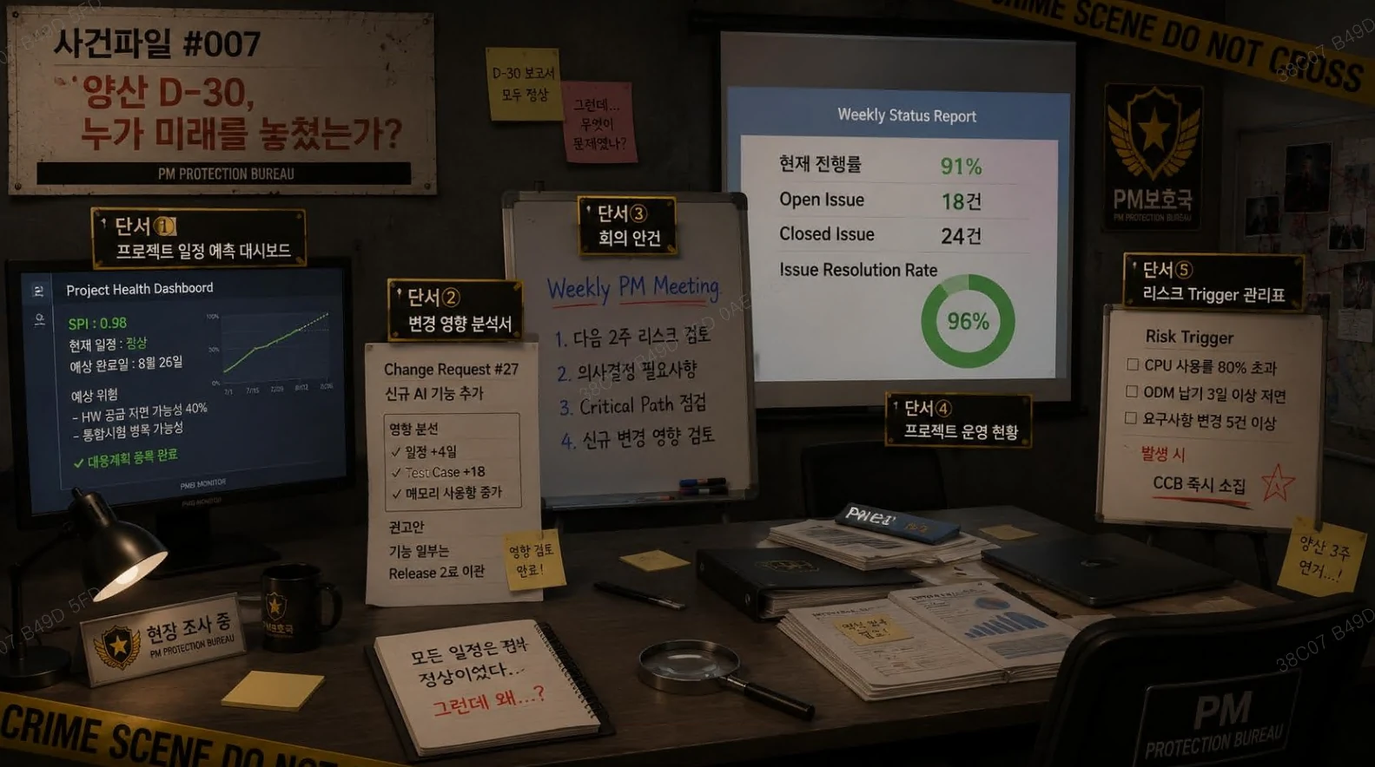
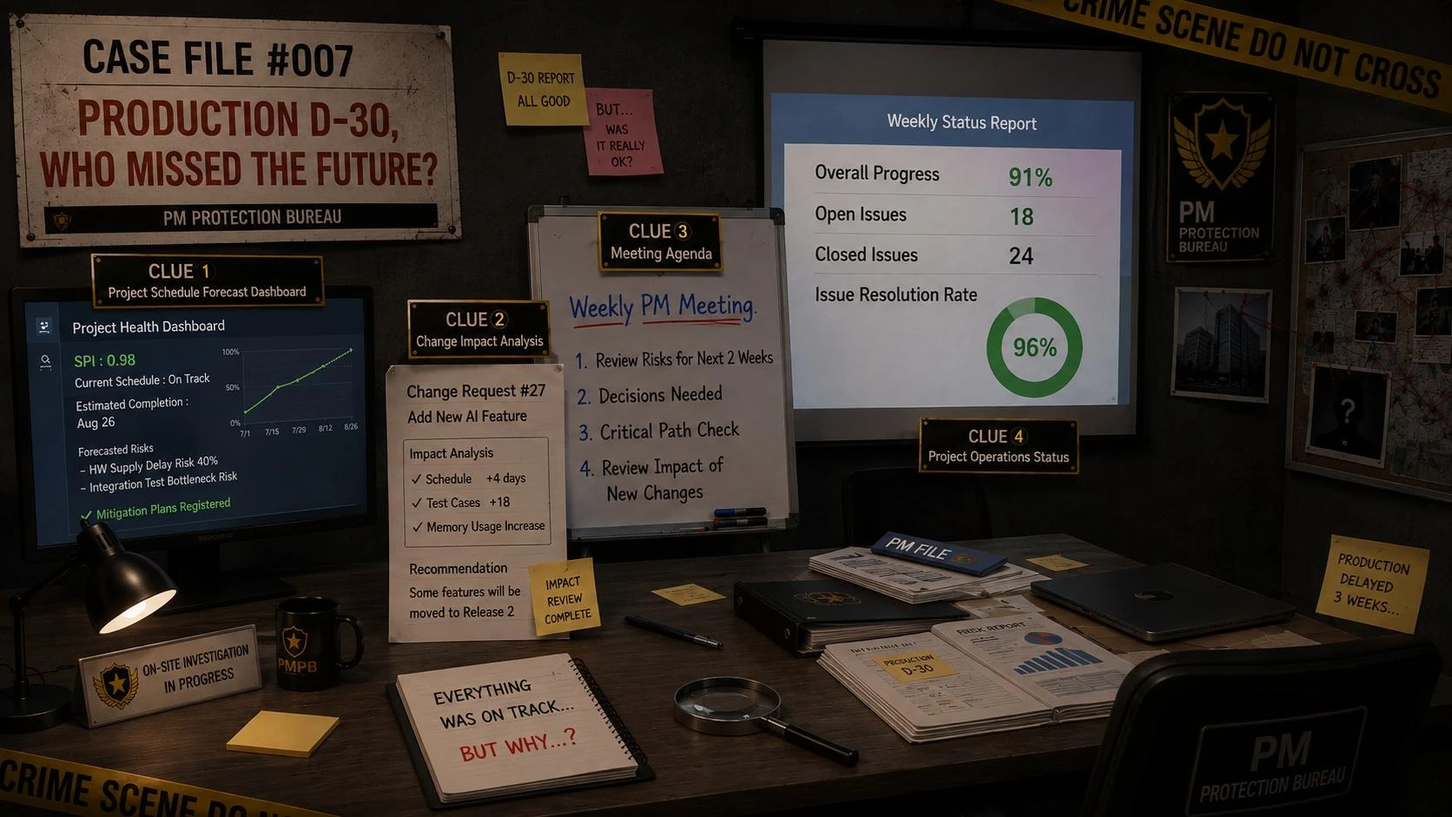
feat(score): 배점 100점 전환 · 사건 #001 확정본 반영
배점: 사건당 20점(300점 만점) → 스테이지별 배점(총 100점)
- src/js/constants/scoring.js 신설 — STAGE_POINTS{1:7,2:7,3:6} · STAGE_TOTALS ·
  STAGE_SCORE_MAX{21,49,30} · SCORE_MAX=100 · pointsFor(). 두 progress 구현에
  중복돼 있던 STAGE_TOTALS를 합치고 POINTS_PER_CASE는 제거했다.
- 표시 반영: 사이드바 만점 · Stage Result 점수 · 관리자 랭킹 Stage별 점수.
  사이드바 Stage Score 행은 정답 수/사건 수(2/7) 유지 — LayOut 설계값.
- 서버: supabase/migrations/0008_stage_points.sql — stage_points() 함수 +
  submit_answer가 이를 사용(stage는 서버가 case_answers에서 확정). 기존 20점
  기록을 재환산하고 recalc_team_progress로 총점을 재집계하는 멱등 블록 포함.
  ⚠ 아직 미적용 — 적용 전에는 서버가 20점을 주고 화면은 /100으로 표시한다.
- npm run validate가 "제작된 사건 기준 만점 ≠ SCORE_MAX"를 오류로 잡는다.

사건 #001 (Stage 1 · Proactive Mindset) 확정
- 단서 이미지를 영문판 1종으로 운영 → question1.webp 교체(CLUE 1~4, 단서 5→4개).
  PNG 2.1MB를 q90 WebP 211KB로 변환(PSNR 44.6dB).
- 국문 보기에 한글 단서명을 desc로 붙여 영문 이미지의 소제목을 짚어준다.
- fileNo를 #007로 변경 — 이미지에 인쇄된 CASE FILE #007과 화면을 맞춘다.
- 해설 확정본 교체 + 문체를 존댓말로 통일(15개 사건 중 14개가 존댓말).
  정답 인덱스는 3 그대로라 기존 제출 채점 결과는 바뀌지 않는다.
  ⚠ 서버 반영에는 0003_seed_answers.sql 재적용이 필요하다.

문서: handoff.md §7에 이번 세션 기록(결정·미해결 항목·다음 할 일)을 남겼다.
- 미해결: case-003 국문 brief가 없는 음성을 지시함 · question4.webp 미연결 ·
  에셋 키↔사건 순번 불일치(2↔3 교체 잔재).

🤖 Generated with Claude Code

diff --git a/src/js/dev/solutions.js b/src/js/dev/solutions.js
@@ -16,26 +16,25 @@ import { getLocale } from '../lib/i18n.js'
 //    answerIndex 는 choices 배열의 0-기준 인덱스다 (예: 3 = 화면상 "4번").
 // ──────────────────────────────────────────────────────────────────────────
 export const SOLUTIONS = {
-  'case-007': {
-    answerIndex: 3, // 정답: 4번
+  'case-001': {
+    // 확정 콘텐츠(2026-08-05) — 이미지 교체로 단서 5개 → 4개(CLUE 1~4), 해설 본문도 확정본으로 교체.
+    answerIndex: 3, // 정답: ④ 단서 4 · 프로젝트 운영 현황
     analysis: [
-      '이 문제의 함정은 ④도 좋은 PM 활동처럼 보인다는 점입니다.',
-      '실제로 이슈를 관리하고, 버그를 해결하며, 진행률을 관리하는 것은 중요한 PM 업무입니다.',
-      '그러나 PMBOK 8판의 Proactive Mindset은 현재를 잘 관리하는 것을 넘어 미래를 예측하고, 문제를 예방하며, 필요한 의사결정을 앞당기는 것을 강조합니다.',
-      '①, ②, ③, ⑤는 모두 미래를 예측하거나 미래의 문제를 줄이기 위한 활동입니다.',
-      '반면 ④는 이미 발생한 이슈를 얼마나 잘 처리했는지에 초점이 맞춰져 있습니다.'
+      // 해설 문체는 15개 사건 전체가 존댓말이다 — 새 확정본도 같은 문체로 맞춘다(2026-08-05).
+      '정답은 ④ 단서 4 · 프로젝트 운영 현황입니다.',
+      'PMBOK® 8판의 Proactive Mindset은 현재 상태만 보고 안심하는 것이 아니라, 미래 위험과 잠재 문제를 미리 예측하고 대응하는 사고방식을 의미합니다. 단서 ④는 현재 진행률과 이슈 처리율 등 현재 상태만 보여줄 뿐 미래 위험이나 선제적 대응 관점이 나타나지 않아 Proactive Mindset과 가장 거리가 멉니다.',
+      '[단서별 판단]\n① 단서 1 · 프로젝트 일정 예측 대시보드 — 오답입니다. 향후 일정 지연 가능성과 병목 위험을 예측하고 대응계획까지 검토하고 있습니다.\n② 단서 2 · 변경 영향 분석서 — 오답입니다. 변경이 일정·테스트·메모리에 미칠 영향을 사전에 분석하고 있습니다.\n③ 단서 3 · 회의 안건 — 오답입니다. 리스크 검토, Critical Path 점검, 변경 영향 검토 등 선제적 관리 활동을 포함합니다.\n④ 단서 4 · 프로젝트 운영 현황 — 정답입니다. 현재 성과 지표만 보고 있으며 미래 위험 예측이나 예방적 대응 관점이 보이지 않습니다.'
     ].join('\n\n'),
     en: {
       analysis: [
-        'The trap here is that ④ also looks like good PM work.',
-        'Managing issues, fixing bugs, and tracking progress are indeed important PM duties.',
-        'But the Proactive Mindset of PMBOK 8th goes beyond managing the present well — it stresses foreseeing the future, preventing problems, and bringing necessary decisions forward.',
-        '①, ②, ③, and ⑤ are all activities that predict the future or reduce future problems.',
-        '④, by contrast, focuses on how well an issue that has already occurred was handled.'
+        'The answer is ④ Clue 4 · Project Operations Status.',
+        'The Proactive Mindset of PMBOK® 8th Edition means not settling for a look at the present state, but foreseeing future risks and latent problems and acting on them in advance. Clue ④ shows only the present state — overall progress and issue resolution rate — with no view of future risk or pre-emptive response, so it is the farthest from the Proactive Mindset.',
+        '[Clue by clue]\n① Clue 1 · Project Schedule Forecast Dashboard — Incorrect. It forecasts possible schedule delay and bottleneck risk, and reviews the response plans as well.\n② Clue 2 · Change Impact Analysis — Incorrect. It analyses in advance how the change will affect schedule, test cases and memory.\n③ Clue 3 · Meeting Agenda — Incorrect. It covers pre-emptive management activities: risk review, critical path check and change impact review.\n④ Clue 4 · Project Operations Status — Correct. It looks only at current performance indicators, with no future risk forecast or preventive response.'
       ].join('\n\n')
     }
   },
-  'case-014': {
+  // 사건 순서 2↔3 교체(2026-08-05) — 파일 순서는 CASES 와 다르다: 001 → 003 → 002
+  'case-003': {
     answerIndex: 2, // 정답: 3번 (증거물 C)
     analysis: [
       '정답은 증거물 C입니다.',
@@ -54,7 +53,7 @@ export const SOLUTIONS = {
       ].join('\n\n')
     }
   },
-  'case-021': {
+  'case-002': {
     answerIndex: 3, // 정답: 4번 (녹취 D)
     analysis: [
       '정답은 녹취 D입니다.',

diff --git a/src/js/data/cases.js b/src/js/data/cases.js
@@ -14,28 +14,33 @@ export const CASES = [
     id: 'case-001',
     stage: 1, // Stage 1 · Mindset
     caseNo: 1, // Stage 내 사건 순번
-    fileNo: '#001',
+    // 사건 파일 번호는 단서 이미지에 인쇄된 값(CASE FILE #007)에 맞춘다 — 화면과 이미지가 어긋나면
+    // 참가자가 다른 사건으로 오인한다(운영 결정 2026-08-05). caseNo(진행 순번)와는 별개 값이다.
+    fileNo: '#007',
     title: '양산 D-30, 누가 미래를 놓쳤는가?',
     brief: [
       'PM보호국은 양산 30일 전 진행된 프로젝트 회의실을 조사했다.',
       '프로젝트는 당시 모든 일정이 정상으로 보고되었지만, 양산 직전 핵심 기능의 결함이 발견되어 출시가 3주 연기되었다.',
       '현장에는 PM이 남긴 여러 자료가 있었다.',
-      '그런데… 단 하나의 자료만 PMBOK® 8판의 Proactive Mindset과 가장 거리가 멀었다.',
+      '그런데…',
+      '단 하나의 자료만 PMBOK® 8판의 Proactive Mindset과 가장 거리가 멀었다.',
       '그 증거를 찾아라.'
     ].join('\n'),
     prompt: '다음 프로젝트 현장에 남아 있는 4가지 단서 중 PMBOK® 8판의 Proactive Mindset과 가장 거리가 먼 단서는 무엇인가?',
     evidence: {
       caption: 'EVIDENCE · 현장 단서 4',
       images: [
-        { src: ASSETS.questions.q1, alt: '사건 #007 현장에 남은 4가지 단서' }
+        { src: ASSETS.questions.q1, alt: '사건 현장에 남은 4가지 단서 (CLUE 1~4)' }
       ]
     },
-    // 보기(단서) — 순서 = 화면 번호 1~4, 이미지의 단서 라벨과 일치.
+    // 보기(단서) — 순서 = 화면 번호 1~4 = 이미지의 CLUE 1~4.
+    // 단서 이미지는 영문판 하나로 운영하므로(운영 결정 2026-08-05), 국문 화면에서는 desc의 한글 단서명이
+    // 이미지의 영문 소제목(Project Schedule Forecast Dashboard 등)을 대신 짚어주는 역할을 한다.
     choices: [
-      '단서 1',
-      '단서 2',
-      '단서 3',
-      '단서 4'
+      { label: '단서 1', desc: '프로젝트 일정 예측 대시보드' },
+      { label: '단서 2', desc: '변경 영향 분석서' },
+      { label: '단서 3', desc: '회의 안건' },
+      { label: '단서 4', desc: '프로젝트 운영 현황' }
     ],
     en: {
       title: 'Mass Production D-30: Who Missed the Future?',
@@ -48,13 +53,13 @@ export const CASES = [
       prompt: 'Among the four clues left at the project scene, which is farthest from the Proactive Mindset of PMBOK® 8th Edition?',
       evidence: {
         caption: 'EVIDENCE · 4 scene clues',
-        images: [{ src: ASSETS.questions.q1, alt: 'Four clues left at the scene of Case #007' }]
+        images: [{ src: ASSETS.questions.q1, alt: 'Four clues left at the scene (CLUE 1-4)' }]
       },
       choices: [
-        'Clue 1',
-        'Clue 2',
-        'Clue 3',
-        'Clue 4'
+        { label: 'Clue 1', desc: 'Project Schedule Forecast Dashboard' },
+        { label: 'Clue 2', desc: 'Change Impact Analysis' },
+        { label: 'Clue 3', desc: 'Meeting Agenda' },
+        { label: 'Clue 4', desc: 'Project Operations Status' }
       ]
     }
   },
@@ -167,7 +172,7 @@ export const CASES = [
   //    끊김 없이 테스트·시연하기 위한 최소 Mock이며, 다음 규칙만 지키면 확정 콘텐츠로 그대로 교체된다.
   //      · 데이터 구조·게임 엔진은 손대지 않는다 — 이 배열 항목과 SOLUTIONS 항목만 바꾼다.
   //      · placeholder: true 를 지우면 화면의 '임시 데이터' 표시가 사라진다(case.js가 이 필드만 본다).
-  //      · 사건 수 7개 = STAGE_TOTALS[2] (점수 만점 300점 = 20점 × 15사건) 유지.
+  //      · 사건 수 7개 = STAGE_TOTALS[2] 유지 (Stage 2 만점 49점 = 7점 × 7사건 · 총 100점 · constants/scoring.js).
   //      · 단서 미디어가 준비되면 evidence(images/audios)를 추가한다 — 지금은 텍스트 단서만 사건 개요에 있다.
   //    주제는 docs/game-flow.md §9.2의 Q4~Q10(Governance·Financial·Scope·Stakeholders·Risk·Schedule·Resources)을 따른다.
   //    fileNo(#T04~#T10)는 임시 번호다 — 확정 시 실제 사건 파일 번호로 바꾼다.

diff --git a/src/components/shell/left-sidebar.js b/src/components/shell/left-sidebar.js
@@ -1,10 +1,12 @@
 // LeftSidebar — persistent case HUD (LayOut.png):
-// selected Agent Team + Investigation Score (/300) · Ranking · Stage Score · Evidence Items · Version.
-// Scoring model: 20 pts per case × 15 = 300 max (Stage 1 = 60, Stage 2 = 140, Stage 3 = 100).
+// selected Agent Team + Investigation Score (/100) · Ranking · Stage Score · Evidence Items · Version.
+// Scoring model (js/constants/scoring.js): Stage 1 = 7×3 = 21, Stage 2 = 7×7 = 49, Stage 3 = 6×5 = 30 → 100 max.
+// scoreMax 는 화면(screens)이 넘긴다 — 이 컴포넌트는 표시만 한다.
 // update(props)로 점수·랭킹·아이템을 다시 그린다 (사건 해결 시 사이드바 갱신). 서버 연결 시 store 구독으로 교체.
 import { el } from '../../js/utils/dom.js'
 import { icon } from '../../js/utils/icons.js'
 import { t } from '../../js/lib/copy.js'
+import { SCORE_MAX } from '../../js/constants/scoring.js'
 
 const STAGE_ICONS = { mindset: 'brain', domain: 'cube', ai: 'cpu' }
 
@@ -21,7 +23,7 @@ export function createLeftSidebar (props = {}) {
 
   function render (p) {
     const {
-      team = { name: 'UNASSIGNED', rank: '신입 수사관', score: 0, scoreMax: 300 },
+      team = { name: 'UNASSIGNED', rank: '신입 수사관', score: 0, scoreMax: SCORE_MAX },
       ranking = [],
       stageScore = [],
       items = [],
@@ -30,7 +32,7 @@ export function createLeftSidebar (props = {}) {
 
     const scorePct = team.scoreMax > 0 ? Math.max(0, Math.min(100, (team.score / team.scoreMax) * 100)) : 0
 
-    // Agent — selected team, rank, Investigation Score out of 300
+    // Agent — selected team, rank, Investigation Score out of 100
     const agent = el('div', { class: 'agent framed' }, [
       el('div', { class: 'agent__top' }, [
         el('span', { class: 'agent__team', text: team.name }),
@@ -39,7 +41,7 @@ export function createLeftSidebar (props = {}) {
       el('div', { class: 'agent__label caps', text: 'Investigation Score' }),
       el('div', { class: 'agent__score' }, [
         el('b', { text: String(team.score ?? 0) }),
-        el('span', { text: `/ ${team.scoreMax ?? 300} ${t('sidebar.points')}` })
+        el('span', { text: `/ ${team.scoreMax ?? SCORE_MAX} ${t('sidebar.points')}` })
       ]),
       el('div', { class: 'agent__bar' }, [el('div', { class: 'agent__bar-fill', style: { width: `${scorePct}%` } })])
     ])

diff --git a/src/js/lib/progress-mock.js b/src/js/lib/progress-mock.js
@@ -2,10 +2,11 @@
 // 서버 연결 시(Step 3): 제출·채점·점수·시각은 서버가 판정·저장(권위) → 이 모듈은 그 결과 캐시로 바뀐다
 // (CLAUDE.md §8 저장 시점, §10 서버 권위, §11 중복 방지). 지금은 lib/grade.js(MOCK) 결과를 여기 기록.
 import { getTeams } from './teams.js'
+import { STAGE_TOTALS, pointsFor } from '../constants/scoring.js'
 
 const KEY = 'pmb.progress.v1'
-export const POINTS_PER_CASE = 20 // 20점 × 15사건 = 300점 만점 (LeftSidebar 기준)
-export const STAGE_TOTALS = { 1: 3, 2: 7, 3: 5 } // 스테이지별 사건 수 (LayOut 0/3·0/7·0/5)
+// 배점은 constants/scoring.js 가 단일 출처다 (Stage 1·2 = 7점, Stage 3 = 6점 → 총 100점).
+export { STAGE_TOTALS }
 
 function readAll () {
   try { const v = JSON.parse(localStorage.getItem(KEY)); return v && typeof v === 'object' ? v : {} } catch { return {} }
@@ -74,7 +75,7 @@ export function recordSubmission (teamId, caseId, stage, isCorrect) {
   // 정답 집계 — 점수/정답 수
   if (isCorrect && !p.solved.includes(caseId)) {
     p.solved.push(caseId)
-    p.score += POINTS_PER_CASE
+    p.score += pointsFor(stage) // 스테이지별 배점 (7·7·6)
     p.stage[stage] = (p.stage[stage] || 0) + 1
   }
   all[k] = p
@@ -83,7 +84,8 @@ export function recordSubmission (teamId, caseId, stage, isCorrect) {
 }
 
 // 랭킹 — 순위 기준은 docs/game-flow.md §15.1: 총점 → 정답 수 → 제출 완료 시각 → Final Raid 기여도.
-// (총점 = 20 × 정답 수라 실질 동점 판정은 제출 시각부터 갈린다. 미제출=시각 없음은 동점 그룹 최하위.)
+// (스테이지별 배점이 달라 같은 총점에도 정답 수가 다를 수 있다 → 정답 수가 실제 tie-break로 동작한다.
+//  미제출=시각 없음은 동점 그룹 최하위.)
 // 최종 랭킹 화면(SCR-022)이 Stage별 점수·정답 수·완료 시각·Raid 공격 수·획득 장비를 함께 쓴다.
 // 서버 연동 시 rankings 뷰로 교체.
 export function getRanking () {

diff --git a/src/js/screens/gameplay/case.js b/src/js/screens/gameplay/case.js
@@ -14,7 +14,7 @@ import { localizeCase } from '../../data/cases.js'
 import { submitCase } from '../../lib/grade.js'
 import { findTeam } from '../../lib/teams.js'
 import { remainingSeconds, isEnded, subscribe as subscribeGame, getConnection, subscribeConnection } from '../../lib/game.js'
-import { getProgress, getRanking, STAGE_TOTALS, subscribeProgress } from '../../lib/progress.js'
+import { getProgress, getRanking, STAGE_TOTALS, SCORE_MAX, pointsFor, subscribeProgress } from '../../lib/progress.js'
 import { stageCases, builtTotal, submittedCount, isStageComplete, firstIncompleteStage } from '../../lib/stage-progress.js'
 import { createButton } from '../../../components/primitives/button.js'
 import { createModal } from '../../../components/primitives/modal.js'
@@ -33,7 +33,7 @@ function sidebarSnapshot (teamId, teamName, p) {
   const base = scored.length ? scored : ranking.filter((r) => r.teamId === teamId)
   const rankingRows = base.slice(0, 4).map((r) => ({ rank: r.rank, name: r.name, score: r.score, isMe: r.teamId === teamId }))
   return {
-    team: { name: teamName, rank: t('agent.rankRookie'), score: p.score, scoreMax: 300 },
+    team: { name: teamName, rank: t('agent.rankRookie'), score: p.score, scoreMax: SCORE_MAX },
     ranking: teamName !== 'UNASSIGNED' ? rankingRows : [],
     stageScore: [
       { key: 'mindset', label: 'Mindset', score: p.stage[1] || 0, max: STAGE_TOTALS[1] },
@@ -292,7 +292,7 @@ export function createCaseScreen (ctx) {
     const p = getProgress(teamId)
     const total = stageCasesFor(s).length
     const solved = p.stage[s] || 0
-    const score = solved * 20
+    const score = solved * pointsFor(s) // Stage 배점: 1·2 = 7점, 3 = 6점 (constants/scoring.js)
     const rate = total ? Math.round((solved / total) * 100) : 0
     const stat = (k, v) => el('div', { class: 'sresult__stat' }, [
       el('span', { class: 'sresult__stat-val mono', text: v }),

diff --git a/src/js/screens/admin/ranking.js b/src/js/screens/admin/ranking.js
@@ -8,7 +8,7 @@ import { el } from '../../utils/dom.js'
 import { icon } from '../../utils/icons.js'
 import { t } from '../../lib/copy.js'
 import { STAGE_META, STAGE_ITEM_ICONS } from '../../constants/stages.js'
-import { getRanking, POINTS_PER_CASE } from '../../lib/progress.js'
+import { getRanking, STAGE_POINTS } from '../../lib/progress.js'
 import { builtTotal, STAGES } from '../../lib/stage-progress.js'
 import { supabase, isServerMode } from '../../lib/supabase.js'
 import { createButton } from '../../../components/primitives/button.js'
@@ -61,7 +61,8 @@ export function createRankingView (props = {}) {
       el('span', { class: 'rankrow__rank mono', text: String(r.rank) }),
       el('span', { class: 'rankrow__team', text: r.name }),
       el('span', { class: 'rankrow__score mono', text: String(r.score) }),
-      el('span', { class: 'rankrow__stages mono', text: `${r.stage[1] * POINTS_PER_CASE} · ${r.stage[2] * POINTS_PER_CASE} · ${r.stage[3] * POINTS_PER_CASE}` }),
+      // Stage별 점수 = 정답 수 × 스테이지 배점(7·7·6) — 총점(서버 값)과 같은 규칙으로 환산한다.
+      el('span', { class: 'rankrow__stages mono', text: STAGES.map((s) => (r.stage[s] || 0) * STAGE_POINTS[s]).join(' · ') }),
       el('span', { class: 'rankrow__solved mono', text: String(r.solved) }),
       el('span', { class: 'rankrow__time mono', text: fmtTime(r.lastSubmitAt) }),
       el('span', { class: 'rankrow__raid mono', text: String(r.raidHits) }),

diff --git a/src/js/constants/scoring.js b/src/js/constants/scoring.js
@@ -1,0 +1,28 @@
+// 배점 모델 — 총점 100점의 단일 출처. (확정, 2026-08-05)
+//   Stage 1 · Mindset            7점 × 3사건 = 21
+//   Stage 2 · Performance Domain 7점 × 7사건 = 49
+//   Stage 3 · AI Use Case        6점 × 5사건 = 30
+//                                   합계 15사건 = 100점
+// 스테이지마다 사건 수가 달라 '사건당 균등 배점'으로는 100점이 맞지 않는다 → 스테이지별 배점을 둔다.
+// 이 표를 고치면 사이드바(/100)·Stage Result·관리자 랭킹 표시가 함께 따라온다.
+// 서버 배점(supabase/migrations/0008_stage_points.sql 의 submit_answer)과 **반드시 같은 값**을 유지한다 —
+// 실제 점수는 서버가 판정하고(CLAUDE.md §2 §11) 클라이언트는 표시만 한다.
+
+// 스테이지별 사건 수 (LayOut 0/3 · 0/7 · 0/5)
+export const STAGE_TOTALS = { 1: 3, 2: 7, 3: 5 }
+
+// 스테이지별 사건 1건 배점
+export const STAGE_POINTS = { 1: 7, 2: 7, 3: 6 }
+
+// 스테이지 만점 (21 · 49 · 30)
+export const STAGE_SCORE_MAX = {
+  1: STAGE_POINTS[1] * STAGE_TOTALS[1],
+  2: STAGE_POINTS[2] * STAGE_TOTALS[2],
+  3: STAGE_POINTS[3] * STAGE_TOTALS[3]
+}
+
+// 총점 만점 = 100
+export const SCORE_MAX = STAGE_SCORE_MAX[1] + STAGE_SCORE_MAX[2] + STAGE_SCORE_MAX[3]
+
+// 사건 1건 배점 — 알 수 없는 stage 는 0점(점수를 임의로 만들지 않는다).
+export function pointsFor (stage) { return STAGE_POINTS[stage] || 0 }

diff --git a/src/js/lib/progress-server.js b/src/js/lib/progress-server.js
@@ -9,9 +9,10 @@
 // 점수·정답 판정은 절대 여기서 하지 않는다. 서버 응답만 반영한다(CLAUDE.md §2 §7).
 import { supabase, rpc } from './supabase.js'
 import { getClaimToken } from './entries.js'
+import { STAGE_TOTALS } from '../constants/scoring.js'
 
-export const POINTS_PER_CASE = 20 // 표시용 상수 (실제 배점은 서버 submit_answer)
-export const STAGE_TOTALS = { 1: 3, 2: 7, 3: 5 }
+// 배점 표시는 constants/scoring.js, 실제 배점 판정은 서버 submit_answer 가 한다(둘은 같은 값을 유지).
+export { STAGE_TOTALS }
 
 function blankFinale () {
   return { appointedAt: null, raidStartedAt: null, raidEndedAt: null, raidHits: 0, raidDamage: 0, badgeAt: null, endedAt: null }

diff --git a/src/js/lib/progress.js b/src/js/lib/progress.js
@@ -11,8 +11,8 @@ import * as server from './progress-server.js'
 
 const impl = isServerMode() ? server : mock
 
-export const POINTS_PER_CASE = impl.POINTS_PER_CASE
-export const STAGE_TOTALS = impl.STAGE_TOTALS
+// 배점·사건 수는 백엔드와 무관한 게임 규칙이므로 constants/scoring.js 를 그대로 다시 내보낸다.
+export { STAGE_TOTALS, STAGE_POINTS, STAGE_SCORE_MAX, SCORE_MAX, pointsFor } from '../constants/scoring.js'
 
 // ── 동기 조회 ──
 export function getProgress (teamId) { return impl.getProgress(teamId) }

diff --git a/docs/handoff.md b/docs/handoff.md
@@ -156,7 +156,7 @@ Mock 전체 흐름을 커밋하기 전 실시한 점검. **결과: 오류 0**.
 | 콘솔 오류 | 국문·영문 전체 플레이 + 손상 스토리지 부팅 + 초기화까지 **0건**(Vite HMR 로그만) |
 | 프로덕션 번들 DEV 코드 | `fastForward`·`devmenu`·`DEV 잠금`·`createTeamManager` 등 **전부 0건** (DEV 메뉴 미노출 확인) |
 | 없는 에셋 요청 | 종반부까지 네트워크 로그 전수 확인 — `ending.mp4`·미제작 SFX **요청 없음**, 전 요청 200/206/304 |
-| 국문 전체 흐름 | Entry→…→Stage 1(3)→Stage 2(7)→Stage 3(5)→임명→레이드→금배지→종료: 300점·15/15 |
+| 국문 전체 흐름 | Entry→…→Stage 1(3)→Stage 2(7)→Stage 3(5)→임명→레이드→금배지→종료: 100점·15/15 (배점 변경 전 실측은 300점) |
 | 영문 전체 흐름 | 동일 경로 완주, 라벨·해설 전부 영문 |
 | Final Raid 종료 | 클릭 30회 → 20.0초에 격퇴 / 백그라운드 탭(rAF 정지) → **setTimeout 안전망이 20.6초에 종료** |
 
@@ -192,5 +192,53 @@ Stage 3 아이템(배째 마스터)
 - **저장 지점(docs/game-flow.md §18)**: `progress.finale = { appointedAt, raidStartedAt, raidEndedAt, raidHits, raidDamage, badgeAt, endedAt }`. 시각은 최초 1회만 기록하고 누적치(타수·데미지)는 최댓값을 유지한다 → 새로고침해도 기여도가 깎이지 않는다.
 - **새로고침 복구**: 임명 전 → 임명 화면 / 임명 후 레이드 미완료 → 경보부터 다시 / 레이드 완료 → 격퇴 결과 화면 / 금배지 이후 → 마무리했으면(endedAt) 종료 안내, 아니면 금배지 수여식. Stage 3 마지막 사건 제출 직후 새로고침하면 **Stage 3 결과 화면**으로 복구된다(아이템 획득 연출을 건너뛰지 않도록).
 - **레이드 안전장치**: 체력은 `max(경과시간/20초, 타수/140)`로 감소 → 클릭 0회여도 20초에 0이 된다. rAF가 멈추는 백그라운드 탭 대비 `setTimeout(20.6초)` 안전망이 있고 `finish()`는 멱등이다.
-- **랭킹 기준**(`lib/progress.js getRanking`): 총점 → 정답 수 → 제출 완료 시각 → Raid 기여도(§15.1). Raid 타수는 **점수에 가산하지 않고** 표시·동점 처리에만 쓴다(300점 만점 유지).
+- **랭킹 기준**(`lib/progress.js getRanking`): 총점 → 정답 수 → 제출 완료 시각 → Raid 기여도(§15.1). Raid 타수는 **점수에 가산하지 않고** 표시·동점 처리에만 쓴다(100점 만점 유지).
+- **배점**(확정 2026-08-05): 스테이지별 배점 — Stage 1 = 7점×3 = 21 · Stage 2 = 7점×7 = 49 · Stage 3 = 6점×5 = 30 → **총 100점**. 클라이언트 표시값은 `src/js/constants/scoring.js`, 서버 판정은 `stage_points()` + `submit_answer`(`supabase/migrations/0008_stage_points.sql`). 두 값은 항상 같이 고친다.
 - **스크롤 리셋**: 화면 스크롤 컨테이너는 `#flow-root`다. `flow.js`가 화면 전환 시, 각 컨트롤러는 하위 국면 전환 시 `ctx.scrollToTop()`으로 맨 위로 되돌린다(긴 랭킹 화면에서 중간부터 보이던 문제 수정).
+
+---
+
+## 7. 2026-08-05 세션 기록 — 배점 100점 전환 · 사건 #001 확정
+
+### 7.1 배점: 사건당 20점(300점) → 스테이지별 배점(100점)
+
+| Stage | 사건 수 | 사건당 | 스테이지 만점 |
+|---|---|---|---|
+| 1 · Mindset | 3 | 7점 | 21 |
+| 2 · Performance Domain | 7 | 7점 | 49 |
+| 3 · AI Use Case | 5 | 6점 | 30 |
+| **합계** | **15** | — | **100** |
+
+- **단일 출처**: `src/js/constants/scoring.js` (`STAGE_POINTS` · `STAGE_TOTALS` · `STAGE_SCORE_MAX` · `SCORE_MAX` · `pointsFor()`). 양쪽 progress 구현에 중복돼 있던 `STAGE_TOTALS`도 여기로 합쳤고, `POINTS_PER_CASE`(=20)는 **삭제**했다.
+- 표시 반영 지점: 사이드바 만점(`case.js` `scoreMax`) · Stage Result 점수(`solved × pointsFor(s)`) · 관리자 랭킹의 Stage별 점수(`정답 수 × STAGE_POINTS[s]`).
+- **사이드바 `Stage Score` 행은 정답 수/사건 수(`2/7`) 유지** — LayOut 설계값이다(운영 결정). 점수 표기로 바꾸지 않았다.
+- **서버**: `supabase/migrations/0008_stage_points.sql` — `stage_points(stage)` 함수 + `submit_answer`가 이를 사용(stage 는 서버가 `case_answers`에서 확정하므로 클라이언트가 배점을 조작할 수 없다). 기존 20점 기록을 재환산하고 `recalc_team_progress`로 팀 총점을 재집계하는 멱등 블록이 포함돼 있다.
+- **검증 자동화**: `npm run validate`가 "제작된 사건 기준 만점 ≠ `SCORE_MAX`"를 **오류**로 잡는다 → 콘텐츠 교체로 배점이 깨지면 즉시 실패한다.
+- 클라이언트 `scoring.js`와 서버 `stage_points()`는 **항상 같이 고친다**.
+
+### 7.2 사건 #001 (Stage 1 · Proactive Mindset) 확정
+
+- 단서 이미지를 **영문판 1종으로 운영**하기로 결정(국문판 별도 제작 없음). 교체된 `question1.webp`는 단서가 `CLUE 1~4` **4개**(이전 국문판은 5개, ⑤ 리스크 Trigger 관리표가 있었다).
+- 그래서 국문 보기에 **한글 단서명을 `desc`로 붙였다** — 영문 이미지의 소제목을 한글이 짚어주는 구조(`{ label: '단서 1', desc: '프로젝트 일정 예측 대시보드' }`).
+- `fileNo`를 **`#007`로 변경** — 이미지에 인쇄된 `CASE FILE #007`과 화면이 어긋나면 참가자가 다른 사건으로 오인한다. `caseNo`(진행 순번 1)와는 별개 값이다.
+- 해설을 확정본으로 교체(총평 + `[단서별 판단]` 4항목), **문체는 존댓말로 통일** — 15개 사건 중 14개가 존댓말이었다. 정답 인덱스는 `3`(④ 프로젝트 운영 현황) 그대로라 기존 제출 채점 결과는 영향 없다.
+- **PNG → WebP 변환은 필수 작업이다.** 코드가 `.webp` 경로 상수를 참조하므로 PNG만 넣으면 404다. 변환 기준: 일러스트·사진형 = 손실 `q90`, 평면 텍스트·표 캡처형 = 무손실(`lossless=True, method=6`). 이번 건은 q90 → 2.1MB → **211KB, PSNR 44.6dB**. 원본 PNG는 서빙되지 않는 `img/questions/`에 보관했다(git 미추적).
+- 최상위 `img/`·`audio/`·`video/`는 **빈 잔재 폴더**다. 런타임 에셋은 반드시 `public/` 아래.
+
+### 7.3 Stage 1 리뷰에서 발견된 미해결 항목
+
+- **`case-003`(가치 판단)의 국문 brief가 "음성을 듣고"라고 지시하는데 음성 소스가 없다.** `public/audio/sfx/`에는 `question3`(=`case-002` 녹취 A~D)·`question11`·`question14`만 있고 `question2/`는 없다. 게다가 **국문과 영문 brief 내용이 다르다** — 영문에는 프로젝트 성과 5항목(일정 준수·예산 내·기능 100%·불만 35%↓·이용 18%↑)과 길동 책임 발언이 있으나 국문에는 그 맥락이 전혀 없어 한국어 참가자가 판단 근거 없이 다이어리 4장만 본다. **결정 필요**: (a) 브리핑 음성 제작 + 자막 제공, (b) 국문 brief를 영문판처럼 텍스트 맥락으로 교체하고 "음성" 문구 삭제(에셋 대기 없음).
+- **`question4.webp`(222KB)가 디스크에만 있고 코드 미연결** — `assets.js`에 `q4` 키가 없다. 출시 전 지표는 전부 GREEN인데 출시 17분 뒤 AUTH ERROR로 전 기능 DOWN, "성능시험이 보안 우회 시나리오를 포함하지 않았다"는 Incident Analysis가 그려진 **Stage 2용 확정 단서 이미지**다. Stage 2 콘텐츠가 오면 이 이미지가 그 사건의 단서다.
+- **에셋 키 ↔ 사건 순번 불일치**(2↔3 순서 교체 잔재): `case-002`가 `q3`/`q3_1~4`, `case-003`이 `q2_1~4`를 쓴다. `docs/assets-list.md`도 교체 전 번호(#014·#021)로 남아 있다. 동작은 정상이나 다음 사람이 헷갈린다.
+- `case-002` 국문 brief는 문자열 안 `\n`과 `join('\n')`이 섞여 줄 간격이 불규칙하다. 또 국문 prompt("가장 부적절한 대화")보다 **영문 prompt가 Mindset 이름을 명시해 힌트를 더 준다**.
+
+### 7.4 Confluence MCP 가 동작하지 않는다 (도구 설정)
+
+`~/.claude.json`의 `CONFLUENCE_URL`이 `http://collab.lge.com`인데 실제 컨텍스트 경로는 **`http://collab.lge.com/main`**이다(페이지 URL이 `/main/spaces/...`). 그래서 REST 호출이 다른 인스턴스로 가서 `get_page`는 "no content with the given id", `search`는 404다. → `CONFLUENCE_URL`에 `/main`을 붙이고 MCP 재연결해야 원본 문제 페이지(예: `Gate1. Mindset`)를 읽을 수 있다.
+
+### 7.5 다음 세션에서 바로 해야 할 일
+
+1. **`0008_stage_points.sql` 적용** (SQL Editor). 미적용 상태에서는 서버가 여전히 20점을 주는데 화면은 `/100`으로 표시한다. 확인: `select public.stage_points(1::smallint)*3 + public.stage_points(2::smallint)*7 + public.stage_points(3::smallint)*5;` → `100`.
+2. **`0003_seed_answers.sql` 적용 후 삭제** (`node scripts/export-seed.mjs`로 재생성 가능 · `.gitignore` 등록됨 · `on conflict do update` 멱등). 사건 #001 해설 확정본이 서버 `case_answers`에 반영돼야 참가자에게 보인다.
+3. 진행 데이터 초기화: 관리자 `?admin` → [대기 상태로 되돌리기] → 확인(=`admin_reset_game(true)`, 입장 점유까지 삭제). 입장 정보를 남기려면 `answers`·`team_progress`만 지우고 `team_progress` 0점 로우를 복원한다(`where true` 필수 — Supabase safeupdate).
+4. §7.3의 `case-003` 음성 결정.

diff --git a/docs/assets-list.md b/docs/assets-list.md
@@ -40,7 +40,7 @@
 
 | File | Purpose | Status |
 |---|---|---|
-| /images/questions/question1.webp | Stage 1 · 1번째 사건 #007 단서 5 (Proactive Mindset) | 있음 · 사용 중 |
+| /images/questions/question1.webp | Stage 1 · 1번째 사건 #007 단서 4 (Proactive Mindset) — **영문판 이미지**(CLUE 1~4). 2026-08-05 교체: 단서 5개→4개, 국문→영문 | 있음 · 사용 중 |
 | /images/questions/question2-1.webp | Stage 1 · 2번째 사건 #014 단서 1/4 (증거물 A) | 있음 · 사용 중 |
 | /images/questions/question2-2.webp | Stage 1 · 2번째 사건 #014 단서 2/4 (증거물 B) | 있음 · 사용 중 |
 | /images/questions/question2-3.webp | Stage 1 · 2번째 사건 #014 단서 3/4 (증거물 C) | 있음 · 사용 중 |
